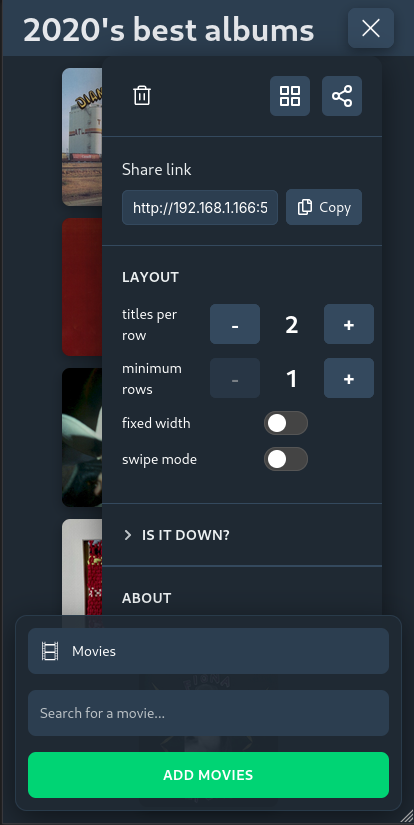
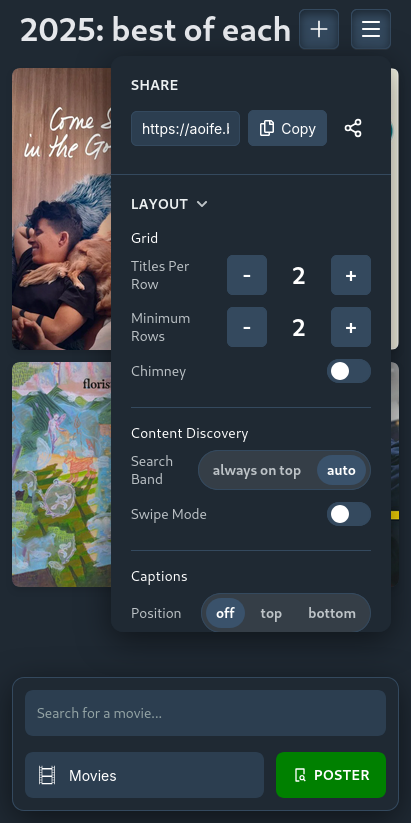
docs: update screenshots

diff --git a/README.md b/README.md
@@ -22,7 +22,7 @@ Ever wanted to share a collage of your favorite albums and shows in one unified 
 
 <table>
   <tr>
-    <td><img src="docs/img/mobile-present.png" width="100%"></td>
+    <td><img src="docs/img/mobile-chimney.png" width="100%"></td>
     <td><img src="docs/img/mobile-single.png" width="100%"></td>
     <td><img src="docs/img/mobile-options.png" width="100%"></td>
   </tr>
@@ -32,7 +32,7 @@ Ever wanted to share a collage of your favorite albums and shows in one unified 
 
 <table>
   <tr>
-    <td><img src="docs/img/desktop-edit.png" width="100%"></td>
+    <td><img src="docs/img/desktop-present.png" width="100%"></td>
     <td><img src="docs/img/desktop-types.png" width="100%"></td>
   </tr>
 </table>
